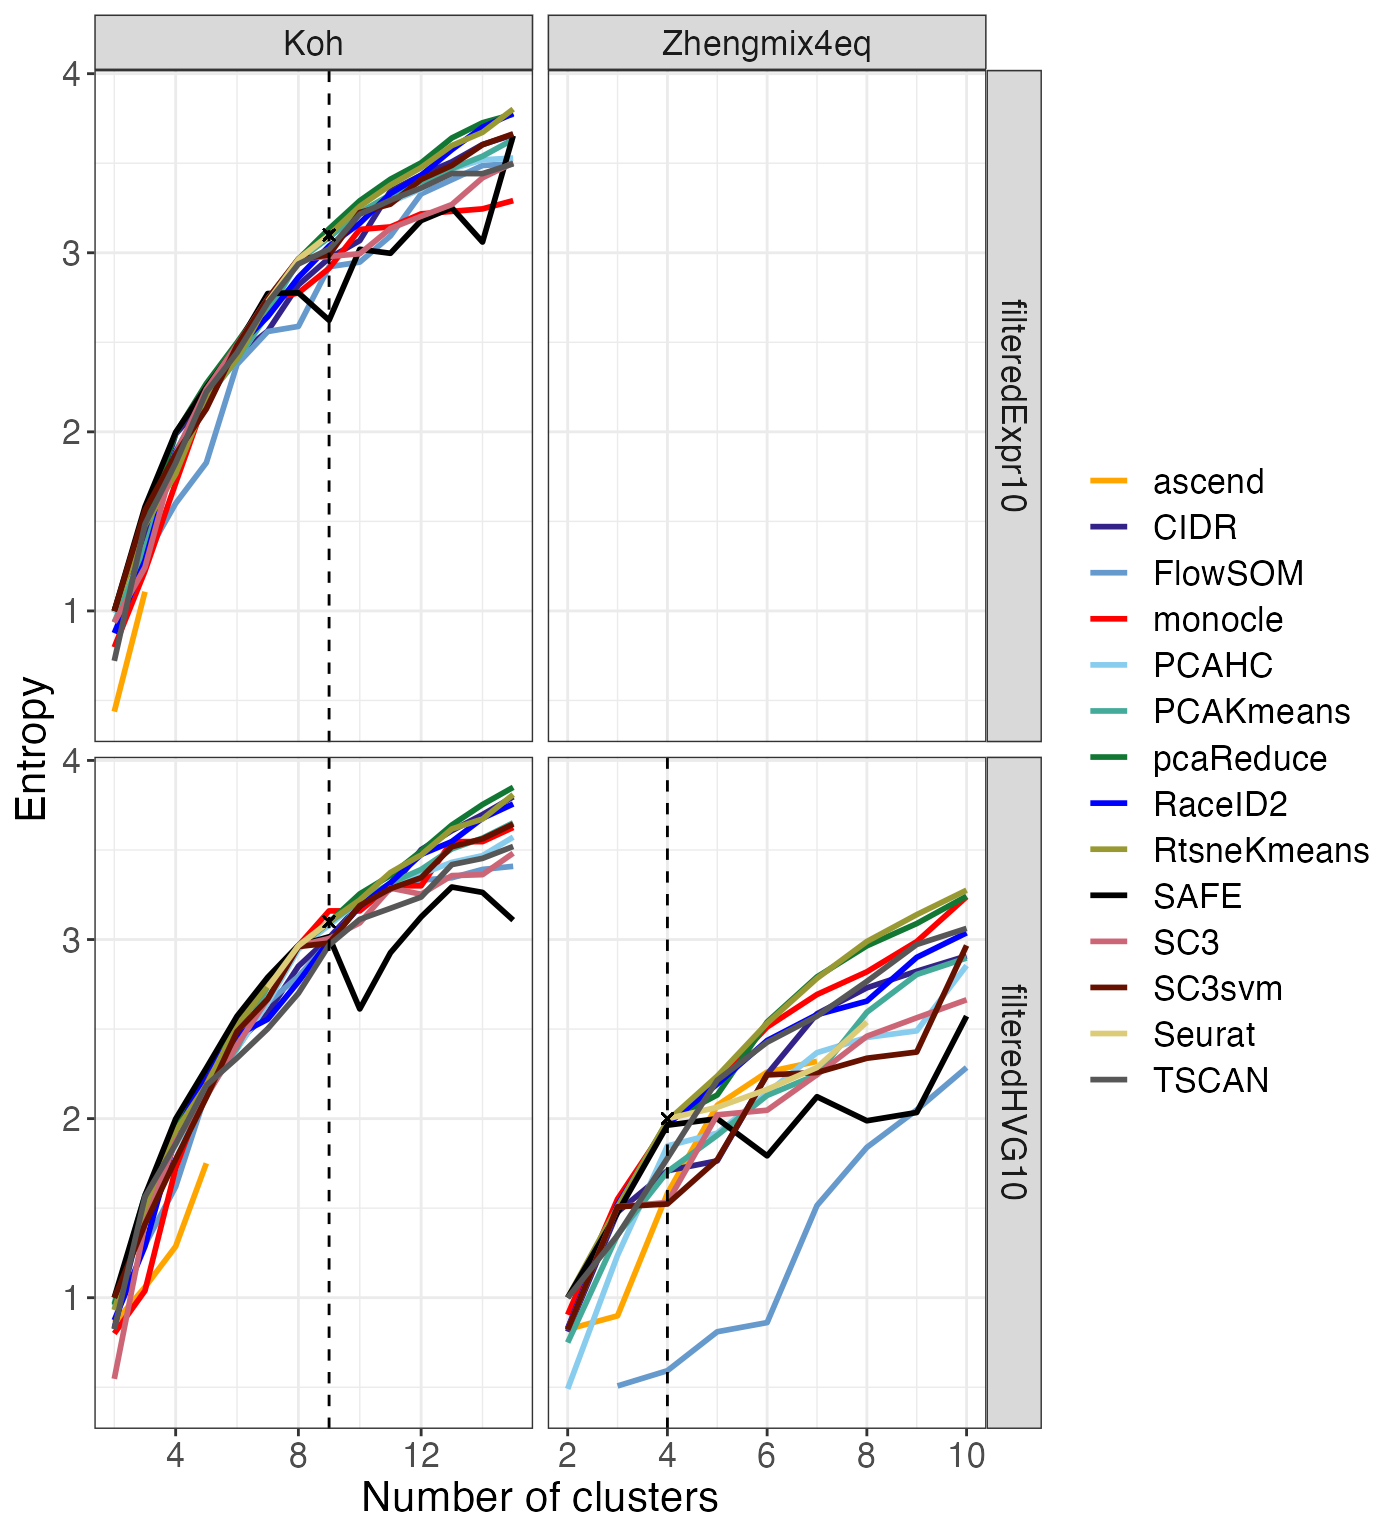
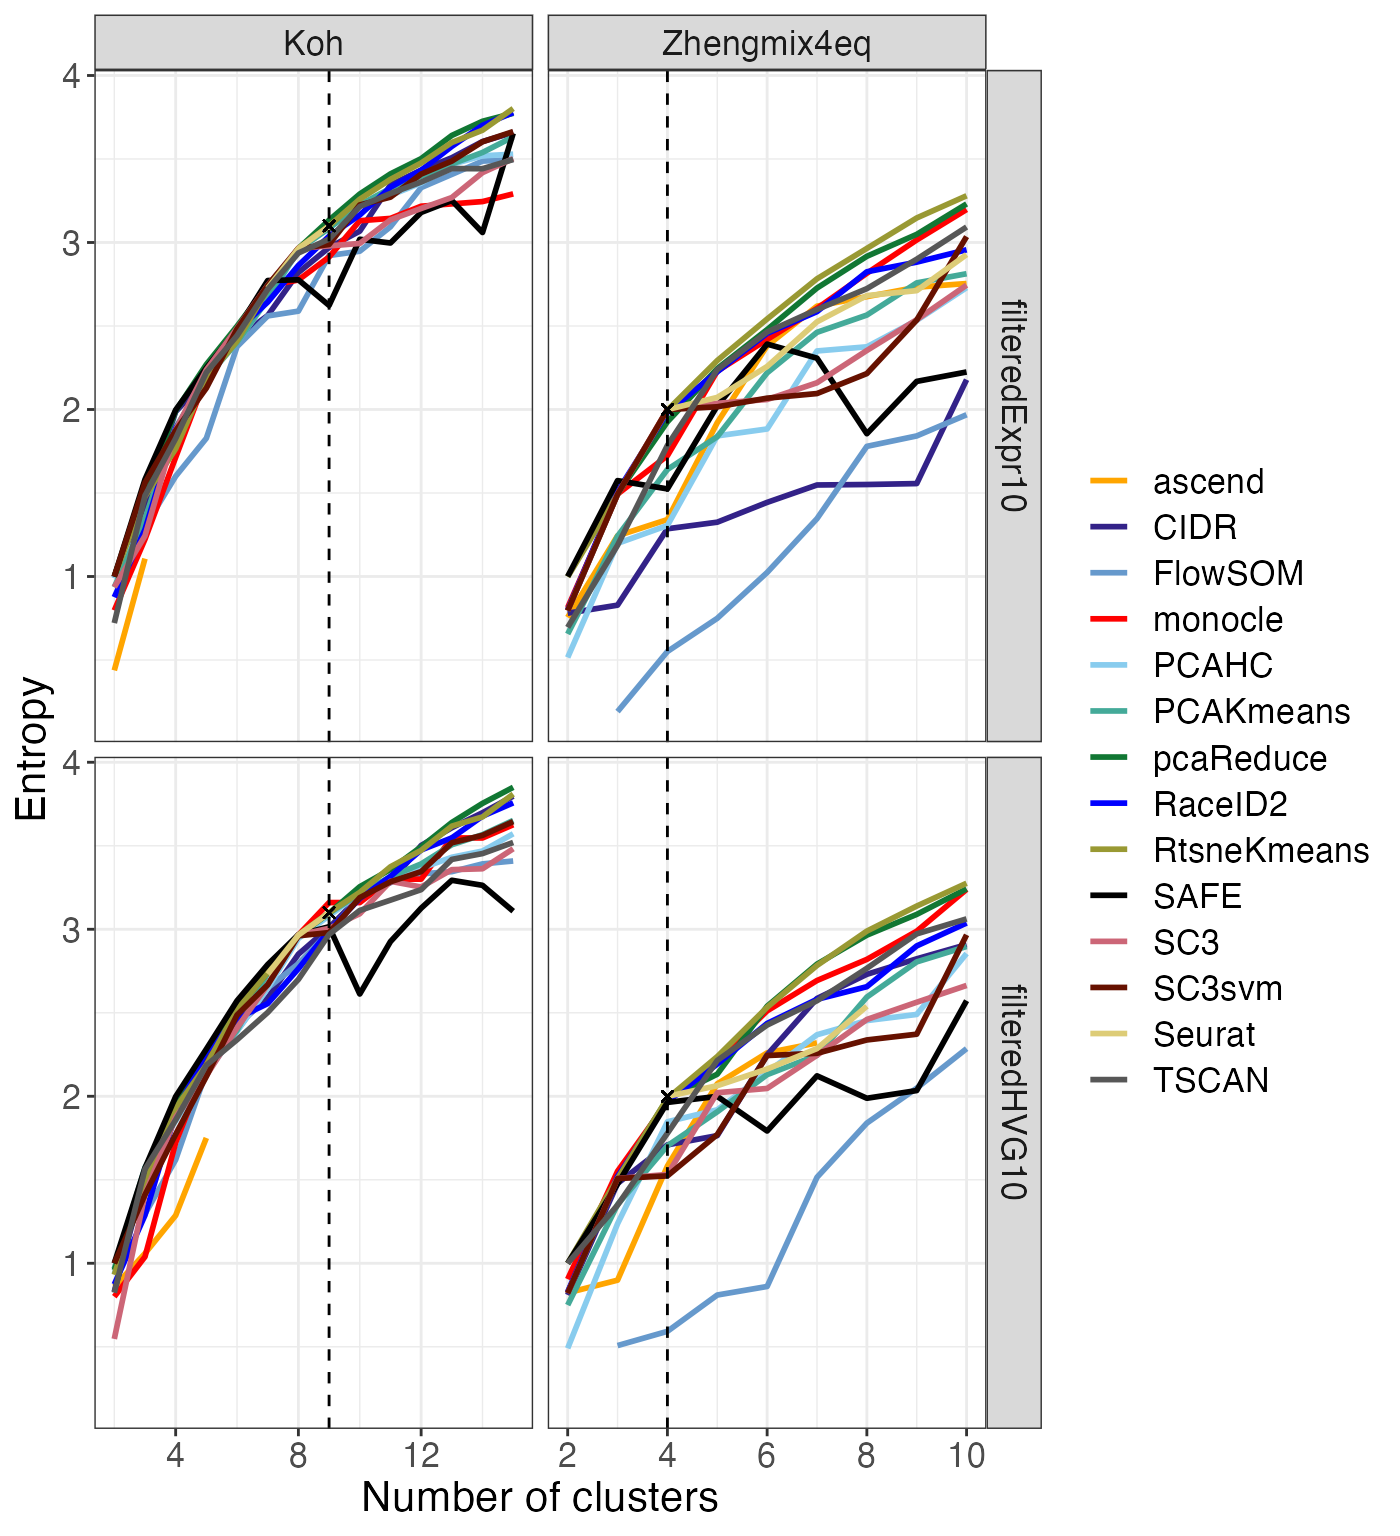
Built site for DuoClustering2018: 1.7.0@d8f56b0

diff --git a/articles/plot_performance.html b/articles/plot_performance.html
@@ -102,7 +102,7 @@
   <span class="kw"><a href="https://rdrr.io/r/base/library.html">library</a></span><span class="op">(</span><span class="va">DuoClustering2018</span><span class="op">)</span>
   <span class="kw"><a href="https://rdrr.io/r/base/library.html">library</a></span><span class="op">(</span><span class="va"><a href="http://had.co.nz/plyr">plyr</a></span><span class="op">)</span>
 <span class="op">}</span><span class="op">)</span></pre></div>
-<pre><code>## using temporary cache /var/folders/24/8k48jl6d249_n_qfxwsl6xvm0000gn/T//Rtmpl3d2JK/BiocFileCache</code></pre>
+<pre><code>## using temporary cache /var/folders/24/8k48jl6d249_n_qfxwsl6xvm0000gn/T//RtmpPCHUGr/BiocFileCache</code></pre>
 <pre><code>## snapshotDate(): 2020-10-02</code></pre>
 </div>
 <div id="retrieve-a-data-set" class="section level1">
@@ -187,7 +187,7 @@
 <span class="va">res</span> <span class="op">&lt;-</span> <span class="fu">plyr</span><span class="fu">::</span><span class="fu"><a href="https://rdrr.io/pkg/plyr/man/rbind.fill.html">rbind.fill</a></span><span class="op">(</span>
   <span class="fu"><a href="../reference/clustering_summary_filteredExpr10_Koh_v2.html">clustering_summary_filteredExpr10_Koh_v2</a></span><span class="op">(</span><span class="op">)</span>,
   <span class="fu"><a href="../reference/clustering_summary_filteredExpr10_Koh_v2.html">clustering_summary_filteredHVG10_Koh_v2</a></span><span class="op">(</span><span class="op">)</span>,
-  <span class="co">#clustering_summary_filteredExpr10_Zhengmix4eq_v2(),</span>
+  <span class="fu"><a href="../reference/clustering_summary_filteredExpr10_Koh_v2.html">clustering_summary_filteredExpr10_Zhengmix4eq_v2</a></span><span class="op">(</span><span class="op">)</span>,
   <span class="fu"><a href="../reference/clustering_summary_filteredExpr10_Koh_v2.html">clustering_summary_filteredHVG10_Zhengmix4eq_v2</a></span><span class="op">(</span><span class="op">)</span>
 <span class="op">)</span></pre></div>
 <pre><code>## snapshotDate(): 2020-10-02</code></pre>
@@ -205,9 +205,14 @@
 <pre><code>## downloading 1 resources</code></pre>
 <pre><code>## retrieving 1 resource</code></pre>
 <pre><code>## loading from cache</code></pre>
-<div class="sourceCode" id="cb37"><pre class="downlit">
+<pre><code>## snapshotDate(): 2020-10-02</code></pre>
+<pre><code>## see ?DuoClustering2018 and browseVignettes('DuoClustering2018') for documentation</code></pre>
+<pre><code>## downloading 1 resources</code></pre>
+<pre><code>## retrieving 1 resource</code></pre>
+<pre><code>## loading from cache</code></pre>
+<div class="sourceCode" id="cb42"><pre class="downlit">
 <span class="fu"><a href="https://rdrr.io/r/base/dim.html">dim</a></span><span class="op">(</span><span class="va">res</span><span class="op">)</span></pre></div>
-<pre><code>## [1] 3261810      10</code></pre>
+<pre><code>## [1] 5625885      10</code></pre>
 <p>The resulting <code>data.frame</code> contains 10 columns:</p>
 <ul>
 <li>
@@ -231,7 +236,7 @@
 <li>
 <code>elapsed</code>: The elapsed time of the run</li>
 </ul>
-<div class="sourceCode" id="cb39"><pre class="downlit">
+<div class="sourceCode" id="cb44"><pre class="downlit">
 <span class="fu"><a href="https://rdrr.io/r/utils/head.html">head</a></span><span class="op">(</span><span class="va">res</span><span class="op">)</span></pre></div>
 <pre><code>##                  dataset    method       cell run k resolution cluster
 ## 1 sce_filteredExpr10_Koh PCAKmeans SRR3952323   1 2         NA       1
@@ -252,7 +257,7 @@
 <h1 class="hasAnchor">
 <a href="#define-consistent-method-colors" class="anchor"></a>Define consistent method colors</h1>
 <p>For some of the plots generated below, the points will be colored according to the clustering method. We can enforce a consistent set of colors for the methods by defining a named vector of colors to use for all plots.</p>
-<div class="sourceCode" id="cb41"><pre class="downlit">
+<div class="sourceCode" id="cb46"><pre class="downlit">
 <span class="va">method_colors</span> <span class="op">&lt;-</span> <span class="fu"><a href="https://rdrr.io/r/base/c.html">c</a></span><span class="op">(</span>CIDR <span class="op">=</span> <span class="st">"#332288"</span>, FlowSOM <span class="op">=</span> <span class="st">"#6699CC"</span>, PCAHC <span class="op">=</span> <span class="st">"#88CCEE"</span>, 
             PCAKmeans <span class="op">=</span> <span class="st">"#44AA99"</span>, pcaReduce <span class="op">=</span> <span class="st">"#117733"</span>,
             RtsneKmeans <span class="op">=</span> <span class="st">"#999933"</span>, Seurat <span class="op">=</span> <span class="st">"#DDCC77"</span>, SC3svm <span class="op">=</span> <span class="st">"#661100"</span>, 
@@ -267,17 +272,17 @@
 <h2 class="hasAnchor">
 <a href="#performance" class="anchor"></a>Performance</h2>
 <p>The <code><a href="../reference/plot_performance.html">plot_performance()</a></code> function generates plots related to the performance of the clustering methods. We quantify performance using the adjusted Rand Index (ARI) <span class="citation">(Hubert and Arabie 1985)</span>, comparing the obtained clustering to the true clusters. As we noted in the publication <span class="citation">(Duò, Robinson, and Soneson 2018)</span>, defining a true partitioning of the cells is difficult, since they can often be grouped together in several different, but still interpretable, ways. We refer to our paper for more information on how the true clusters were defined for each of the data sets.</p>
-<div class="sourceCode" id="cb42"><pre class="downlit">
+<div class="sourceCode" id="cb47"><pre class="downlit">
 <span class="va">perf</span> <span class="op">&lt;-</span> <span class="fu"><a href="../reference/plot_performance.html">plot_performance</a></span><span class="op">(</span><span class="va">res</span>, method_colors <span class="op">=</span> <span class="va">method_colors</span><span class="op">)</span>
 <span class="fu"><a href="https://rdrr.io/r/base/names.html">names</a></span><span class="op">(</span><span class="va">perf</span><span class="op">)</span></pre></div>
 <pre><code>## [1] "median_ari_vs_k"           "scatter_time_vs_ari_truek"
 ## [3] "median_ari_heatmap_truek"  "median_ari_heatmap_bestk" 
 ## [5] "median_ari_heatmap_estk"</code></pre>
-<div class="sourceCode" id="cb44"><pre class="downlit">
+<div class="sourceCode" id="cb49"><pre class="downlit">
 <span class="va">perf</span><span class="op">$</span><span class="va">median_ari_vs_k</span></pre></div>
 <pre><code>## Warning: Removed 4 row(s) containing missing values (geom_path).</code></pre>
 <p><img src="plot_performance_files/figure-html/unnamed-chunk-8-1.png" width="700"></p>
-<div class="sourceCode" id="cb46"><pre class="downlit">
+<div class="sourceCode" id="cb51"><pre class="downlit">
 <span class="va">perf</span><span class="op">$</span><span class="va">median_ari_heatmap_truek</span></pre></div>
 <p><img src="plot_performance_files/figure-html/unnamed-chunk-8-2.png" width="700"></p>
 </div>
@@ -285,9 +290,13 @@
 <h2 class="hasAnchor">
 <a href="#stability" class="anchor"></a>Stability</h2>
 <p>The <code><a href="../reference/plot_stability.html">plot_stability()</a></code> function evaluates the stability of the clustering results from each method, with respect to random starts. Each method was run five times on each data set (for each k), and we quantify the stability by comparing each pair of such runs using the adjusted Rand Index.</p>
-<div class="sourceCode" id="cb47"><pre class="downlit">
+<div class="sourceCode" id="cb52"><pre class="downlit">
 <span class="va">stab</span> <span class="op">&lt;-</span> <span class="fu"><a href="../reference/plot_stability.html">plot_stability</a></span><span class="op">(</span><span class="va">res</span>, method_colors <span class="op">=</span> <span class="va">method_colors</span><span class="op">)</span></pre></div>
 <pre><code>## Aggregation function missing: defaulting to length
+## Aggregation function missing: defaulting to length
+## Aggregation function missing: defaulting to length
+## Aggregation function missing: defaulting to length
+## Aggregation function missing: defaulting to length
 ## Aggregation function missing: defaulting to length
 ## Aggregation function missing: defaulting to length
 ## Aggregation function missing: defaulting to length
@@ -299,15 +308,15 @@
 ## Aggregation function missing: defaulting to length</code></pre>
 <pre><code>## Warning: `cols` is now required when using unnest().
 ## Please use `cols = c(stability)`</code></pre>
-<div class="sourceCode" id="cb50"><pre class="downlit">
+<div class="sourceCode" id="cb55"><pre class="downlit">
 <span class="fu"><a href="https://rdrr.io/r/base/names.html">names</a></span><span class="op">(</span><span class="va">stab</span><span class="op">)</span></pre></div>
 <pre><code>## [1] "stability_vs_k"          "stability_truek"        
 ## [3] "stability_heatmap_truek"</code></pre>
-<div class="sourceCode" id="cb52"><pre class="downlit">
+<div class="sourceCode" id="cb57"><pre class="downlit">
 <span class="va">stab</span><span class="op">$</span><span class="va">stability_vs_k</span></pre></div>
 <pre><code>## Warning: Removed 4 row(s) containing missing values (geom_path).</code></pre>
 <p><img src="plot_performance_files/figure-html/unnamed-chunk-9-1.png" width="700"></p>
-<div class="sourceCode" id="cb54"><pre class="downlit">
+<div class="sourceCode" id="cb59"><pre class="downlit">
 <span class="va">stab</span><span class="op">$</span><span class="va">stability_heatmap_truek</span></pre></div>
 <p><img src="plot_performance_files/figure-html/unnamed-chunk-9-2.png" width="700"></p>
 </div>
@@ -315,15 +324,15 @@
 <h2 class="hasAnchor">
 <a href="#entropy" class="anchor"></a>Entropy</h2>
 <p>In order to evaluate the tendency of the clustering methods to favor equally sized clusters, we calculate the Shannon entropy <span class="citation">(Shannon 1948)</span> of each clustering solution (based on the proportions of cells in the different clusters) and plot this using the <code><a href="../reference/plot_entropy.html">plot_entropy()</a></code> function. Since the maximal entropy that can be obtained depends on the number of clusters, we use normalized entropies, defined by dividing the observed entropy by <code><a href="https://rdrr.io/r/base/Log.html">log2(k)</a></code>. We also compare the entropies for the clusterings to the entropy of the true partition for each data set.</p>
-<div class="sourceCode" id="cb55"><pre class="downlit">
+<div class="sourceCode" id="cb60"><pre class="downlit">
 <span class="va">entr</span> <span class="op">&lt;-</span> <span class="fu"><a href="../reference/plot_entropy.html">plot_entropy</a></span><span class="op">(</span><span class="va">res</span>, method_colors <span class="op">=</span> <span class="va">method_colors</span><span class="op">)</span>
 <span class="fu"><a href="https://rdrr.io/r/base/names.html">names</a></span><span class="op">(</span><span class="va">entr</span><span class="op">)</span></pre></div>
 <pre><code>## [1] "entropy_vs_k"           "entropy_vs_ari"         "normentropy"           
 ## [4] "deltaentropy_truek"     "deltanormentropy_truek"</code></pre>
-<div class="sourceCode" id="cb57"><pre class="downlit">
+<div class="sourceCode" id="cb62"><pre class="downlit">
 <span class="va">entr</span><span class="op">$</span><span class="va">entropy_vs_k</span></pre></div>
 <p><img src="plot_performance_files/figure-html/unnamed-chunk-10-1.png" width="700"></p>
-<div class="sourceCode" id="cb58"><pre class="downlit">
+<div class="sourceCode" id="cb63"><pre class="downlit">
 <span class="va">entr</span><span class="op">$</span><span class="va">normentropy</span></pre></div>
 <p><img src="plot_performance_files/figure-html/unnamed-chunk-10-2.png" width="700"></p>
 </div>
@@ -331,25 +340,25 @@
 <h2 class="hasAnchor">
 <a href="#timing" class="anchor"></a>Timing</h2>
 <p>The <code><a href="../reference/plot_timing.html">plot_timing()</a></code> function plots various aspects of the timing of the different methods.</p>
-<div class="sourceCode" id="cb59"><pre class="downlit">
+<div class="sourceCode" id="cb64"><pre class="downlit">
 <span class="va">timing</span> <span class="op">&lt;-</span> <span class="fu"><a href="../reference/plot_timing.html">plot_timing</a></span><span class="op">(</span><span class="va">res</span>, method_colors <span class="op">=</span> <span class="va">method_colors</span>, 
                       scaleMethod <span class="op">=</span> <span class="st">"RtsneKmeans"</span><span class="op">)</span>
 <span class="fu"><a href="https://rdrr.io/r/base/names.html">names</a></span><span class="op">(</span><span class="va">timing</span><span class="op">)</span></pre></div>
 <pre><code>## [1] "time_boxplot"           "time_normalized_by_ref" "time_vs_k"</code></pre>
-<div class="sourceCode" id="cb61"><pre class="downlit">
+<div class="sourceCode" id="cb66"><pre class="downlit">
 <span class="va">timing</span><span class="op">$</span><span class="va">time_normalized_by_ref</span></pre></div>
-<pre><code>## Warning: Removed 29 rows containing non-finite values (stat_boxplot).</code></pre>
+<pre><code>## Warning: Removed 32 rows containing non-finite values (stat_boxplot).</code></pre>
 <p><img src="plot_performance_files/figure-html/unnamed-chunk-11-1.png" width="700"></p>
 </div>
 <div id="differences-in-k" class="section level2">
 <h2 class="hasAnchor">
 <a href="#differences-in-k" class="anchor"></a>Differences in k</h2>
 <p>Most performance evaluations above are performed on the clustering solutions obtained by imposing the “true” number of clusters. The <code><a href="../reference/plot_k_diff.html">plot_k_diff()</a></code> function evaluates the difference between the true number of cluster and the number of clusters giving the best agreement with the true partition, as well as the difference between the estimated and the true number of clusters, for the methods that allow estimation of k.</p>
-<div class="sourceCode" id="cb63"><pre class="downlit">
+<div class="sourceCode" id="cb68"><pre class="downlit">
 <span class="va">kdiff</span> <span class="op">&lt;-</span> <span class="fu"><a href="../reference/plot_k_diff.html">plot_k_diff</a></span><span class="op">(</span><span class="va">res</span>, method_colors <span class="op">=</span> <span class="va">method_colors</span><span class="op">)</span>
 <span class="fu"><a href="https://rdrr.io/r/base/names.html">names</a></span><span class="op">(</span><span class="va">kdiff</span><span class="op">)</span></pre></div>
 <pre><code>## [1] "diff_kmax_ktrue" "diff_kest_ktrue"</code></pre>
-<div class="sourceCode" id="cb65"><pre class="downlit">
+<div class="sourceCode" id="cb70"><pre class="downlit">
 <span class="va">kdiff</span><span class="op">$</span><span class="va">diff_kest_ktrue</span></pre></div>
 <pre><code>## `stat_bindot()` using `bins = 30`. Pick better value with `binwidth`.</code></pre>
 <p><img src="plot_performance_files/figure-html/unnamed-chunk-12-1.png" width="700"></p>
@@ -358,7 +367,7 @@
 <div id="session-info" class="section level1">
 <h1 class="hasAnchor">
 <a href="#session-info" class="anchor"></a>Session info</h1>
-<div class="sourceCode" id="cb67"><pre class="downlit">
+<div class="sourceCode" id="cb72"><pre class="downlit">
 <span class="fu"><a href="https://rdrr.io/r/utils/sessionInfo.html">sessionInfo</a></span><span class="op">(</span><span class="op">)</span></pre></div>
 <pre><code>## R version 4.0.3 (2020-10-10)
 ## Platform: x86_64-apple-darwin17.0 (64-bit)

diff --git a/articles/run_clustering.html b/articles/run_clustering.html
@@ -116,7 +116,7 @@
 <span class="fu"><a href="https://rdrr.io/r/base/message.html">suppressPackageStartupMessages</a></span><span class="op">(</span><span class="op">{</span>
   <span class="kw"><a href="https://rdrr.io/r/base/library.html">library</a></span><span class="op">(</span><span class="va">DuoClustering2018</span><span class="op">)</span>
 <span class="op">}</span><span class="op">)</span></pre></div>
-<pre><code>## using temporary cache /var/folders/24/8k48jl6d249_n_qfxwsl6xvm0000gn/T//RtmpvyN5Wc/BiocFileCache</code></pre>
+<pre><code>## using temporary cache /var/folders/24/8k48jl6d249_n_qfxwsl6xvm0000gn/T//RtmpqzsneK/BiocFileCache</code></pre>
 <pre><code>## snapshotDate(): 2020-10-02</code></pre>
 <div class="sourceCode" id="cb4"><pre class="downlit">
 <span class="va">scename</span> <span class="op">&lt;-</span> <span class="st">"sce_filteredExpr10_Koh"</span>

diff --git a/articles/combine_data_clustering.html b/articles/combine_data_clustering.html
@@ -103,7 +103,7 @@
   <span class="kw"><a href="https://rdrr.io/r/base/library.html">library</a></span><span class="op">(</span><span class="va"><a href="https://dplyr.tidyverse.org">dplyr</a></span><span class="op">)</span>
   <span class="kw"><a href="https://rdrr.io/r/base/library.html">library</a></span><span class="op">(</span><span class="va"><a href="https://tidyr.tidyverse.org">tidyr</a></span><span class="op">)</span>
 <span class="op">}</span><span class="op">)</span></pre></div>
-<pre><code>## using temporary cache /var/folders/24/8k48jl6d249_n_qfxwsl6xvm0000gn/T//Rtmp0zFUWd/BiocFileCache</code></pre>
+<pre><code>## using temporary cache /var/folders/24/8k48jl6d249_n_qfxwsl6xvm0000gn/T//RtmpaoJIRV/BiocFileCache</code></pre>
 <pre><code>## snapshotDate(): 2020-10-02</code></pre>
 </div>
 <div id="retrieve-a-data-set" class="section level1">
